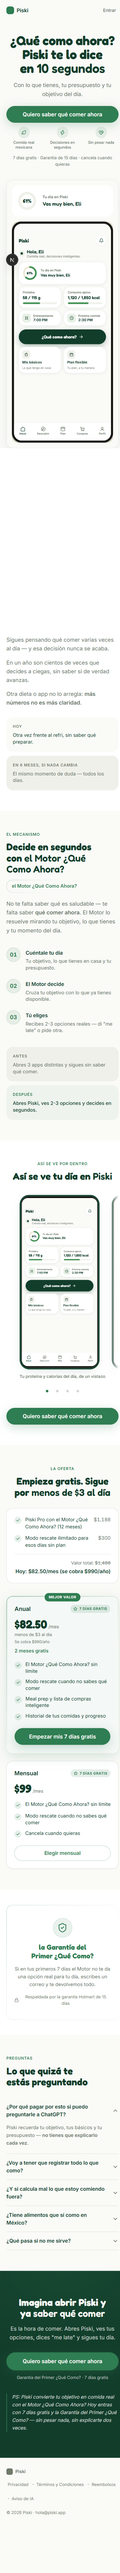
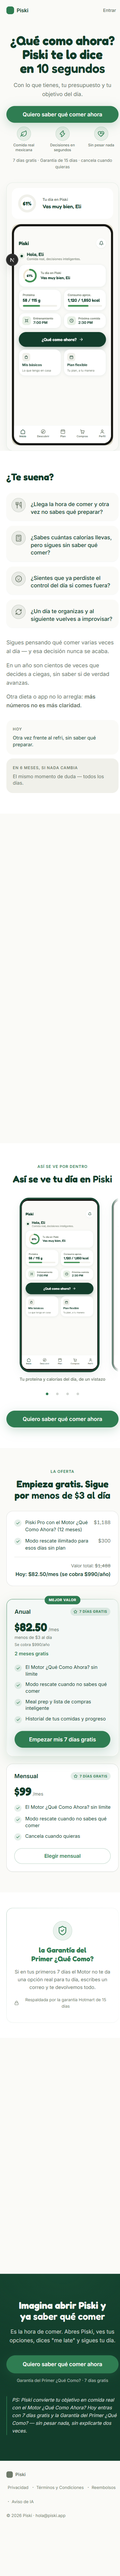
Reusar IconChip del kit para los 3 chips de beneficios del Hero (consistencia)

diff --git a/app/page.tsx b/app/page.tsx
@@ -15,7 +15,7 @@ import { Garantia } from '@/components/landing/Garantia';
 import { Faq } from '@/components/landing/Faq';
 import { CtaFinal } from '@/components/landing/CtaFinal';
 import { FooterLegal } from '@/components/landing/FooterLegal';
-import { StickyCtaMobile } from '@/components/landing/ui';
+import { StickyCtaMobile, IconChip } from '@/components/landing/ui';
 import { AnimatedRingDemo } from '@/components/AnimatedRingDemo';
 import { BackToTop } from '@/components/BackToTop';
 
@@ -44,24 +44,18 @@ export default function LandingPiski() {
         ctaHref={CTA_HREF}
         socialProof={
           <div className="flex flex-col items-center gap-4">
-            {/* Fila de 3 beneficios con ícono — ancla visual para escanear sin leer (52) */}
+            {/* Fila de 3 beneficios con ícono — mismo IconChip del kit (44px, mismo borde/forma que Problema/Solución) */}
             <div className="grid grid-cols-3 gap-3 text-center">
               <div className="flex flex-col items-center gap-1.5">
-                <span aria-hidden="true" className="flex size-9 items-center justify-center rounded-full bg-[var(--chip-bg)]">
-                  <Leaf size={16} color="var(--accent)" aria-hidden="true" />
-                </span>
+                <IconChip icon={Leaf} />
                 <span className="text-[11.5px] font-medium leading-tight text-[var(--text-secondary)]">Comida real mexicana</span>
               </div>
               <div className="flex flex-col items-center gap-1.5">
-                <span aria-hidden="true" className="flex size-9 items-center justify-center rounded-full bg-[var(--chip-bg)]">
-                  <Zap size={16} color="var(--accent)" aria-hidden="true" />
-                </span>
+                <IconChip icon={Zap} />
                 <span className="text-[11.5px] font-medium leading-tight text-[var(--text-secondary)]">Decisiones en segundos</span>
               </div>
               <div className="flex flex-col items-center gap-1.5">
-                <span aria-hidden="true" className="flex size-9 items-center justify-center rounded-full bg-[var(--chip-bg)]">
-                  <HeartHandshake size={16} color="var(--accent)" aria-hidden="true" />
-                </span>
+                <IconChip icon={HeartHandshake} />
                 <span className="text-[11.5px] font-medium leading-tight text-[var(--text-secondary)]">Sin pesar nada</span>
               </div>
             </div>

diff --git a/docs/revisiones/landing-veredicto.md b/docs/revisiones/landing-veredicto.md
@@ -1,9 +1,9 @@
 # VEREDICTO revisor-visual — landing
 Fecha: 2026-09-06 00:00
 Screenshot: docs/revisiones/landing-375.png
-Usabilidad: 35/40
+Usabilidad: 34/40
 Craft: 18/20
 Copy (si vende): 19/20
 Fidelidad (si hubo referencia): N-A
 Veredicto: NO LISTA
-Top defectos: 1) Hero.tsx: <header> (logo+Entrar) quedó anidado en <section id="hero"> dentro de <main> — pierde el rol landmark "banner" para lectores de pantalla (regla ARIA: header pierde banner si es descendiente de section/article/aside/main/nav); mover el header fuera de <main> como hermano directo en page.tsx. 2) El enlace "Entrar" del header y otros usos de --text-tertiary (#6f7a6a sobre #FAFAF7) rondan ~4.2-4.5:1, al límite de AA para texto normal — subir un tono o usar --text-secondary en textos de navegación. 3) Ningún estado de error/carga es aplicable (landing sin formularios) por lo que h5/h9 quedan en "funciona sin problemas visibles" (3/4) en vez de ejemplar — no bloqueante.
+Top defectos: 1) Hero.tsx: <header> sigue anidado en <section id="hero"> dentro de <main> — pierde el rol landmark "banner" (issue arrastrado desde la pasada 7, sin corregir). 2) NUEVO en esta pasada: los 3 chips de beneficio agregados bajo el CTA del Hero (page.tsx L48-67) son un componente ad-hoc (círculo 36px, sin borde, ícono 16px) que no reutiliza <IconChip> de components/landing/ui.tsx (44px, borde acento, ícono 22px, usado en Solucion.tsx y Garantia.tsx) — dos tratamientos distintos de "chip de ícono" en la misma página, rompe consistencia (h4) y encaje óptico; unificar usando <IconChip tone="accent" />. 3) --text-tertiary en enlaces (ej. "Entrar") ronda 4.2-4.5:1, al límite de AA, sin corregir desde la pasada anterior. 4) FAQ: ninguna pregunta tiene ícono ancla, a diferencia del resto del kit que sí usa IconChip por ítem — agregar ícono de categoría por pregunta.
